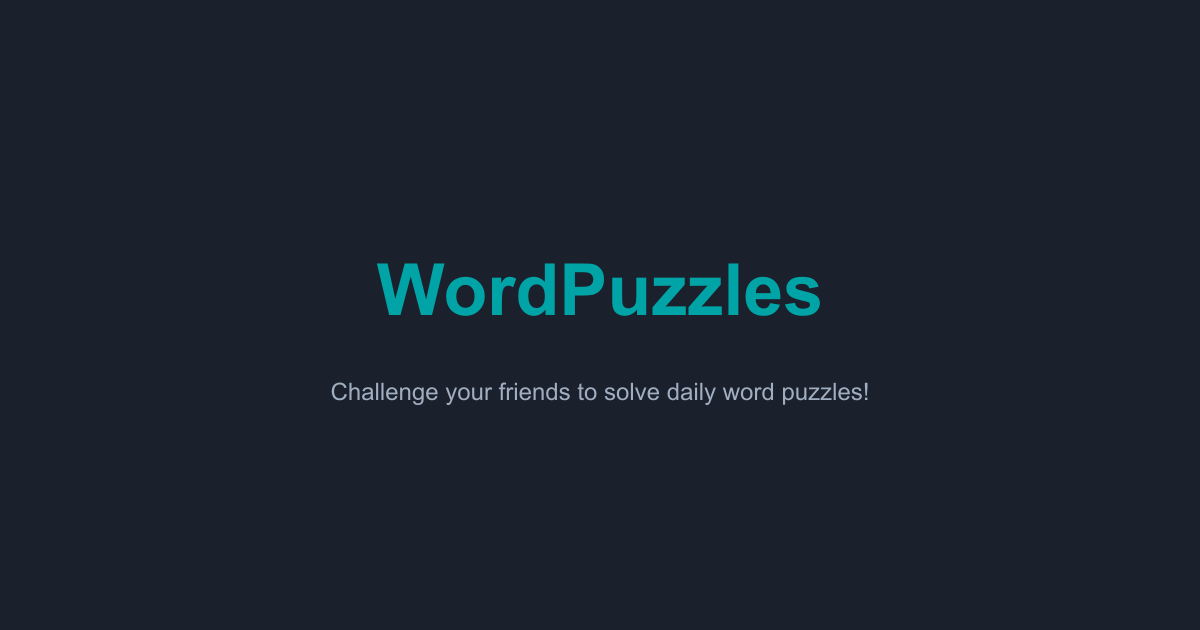
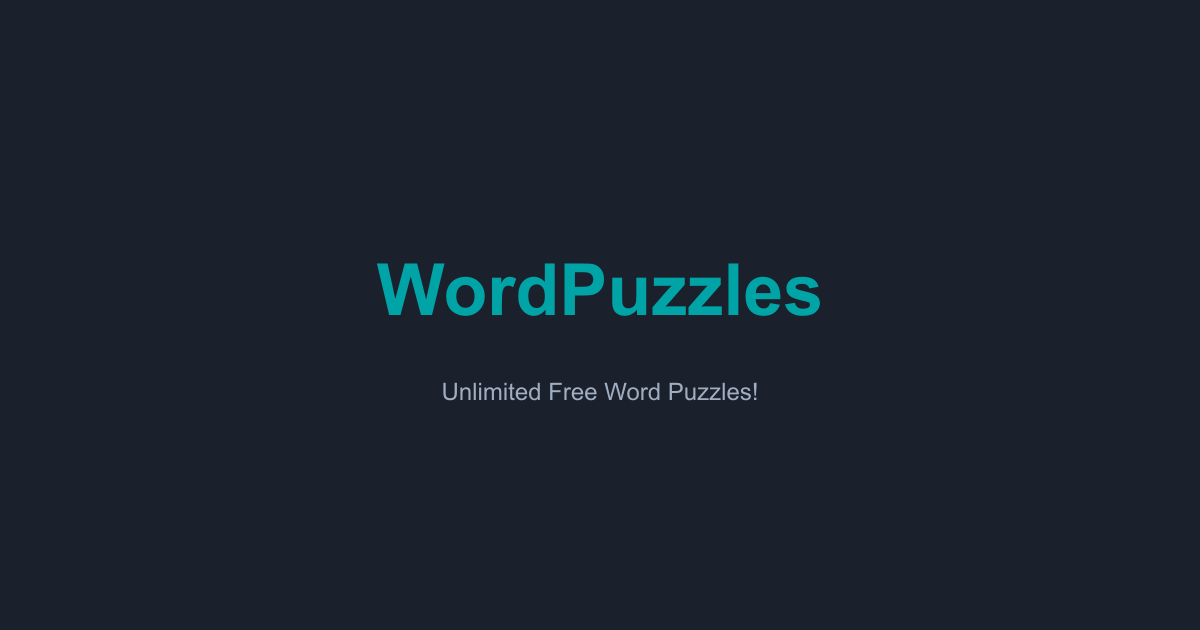
Improve link sharing and branding: Update meta tags, sharing messages, and og-image

Changed region(s): [[0.2775, 0.6032, 0.74, 0.6333]]

diff --git a/index.html b/index.html
@@ -10,24 +10,24 @@
     <title>WordPuzzles.org</title>
     
     <!-- Primary Meta Tags -->
-    <meta name="title" content="WordPuzzles.org - Daily Word Puzzles">
-    <meta name="description" content="Challenge your friends to solve daily word puzzles! Play now and test your vocabulary skills.">
-    <meta name="keywords" content="word puzzles, daily puzzles, word games, vocabulary games">
+    <meta name="title" content="WordPuzzles.org - Unlimited Free Word Puzzles!">
+    <meta name="description" content="Unlimited Free Word Puzzles! Challenge your friends and test your vocabulary skills.">
+    <meta name="keywords" content="word puzzles, unlimited puzzles, word games, vocabulary games">
     <meta name="author" content="WordPuzzles.org">
     
     <!-- Open Graph / Facebook -->
     <meta property="og:type" content="website">
     <meta property="og:url" content="https://wordpuzzles.org/">
-    <meta property="og:title" content="WordPuzzles.org - Daily Word Puzzles">
-    <meta property="og:description" content="Challenge your friends to solve daily word puzzles! Play now and test your vocabulary skills.">
+    <meta property="og:title" content="WordPuzzles.org - Unlimited Free Word Puzzles!">
+    <meta property="og:description" content="Unlimited Free Word Puzzles! Challenge your friends and test your vocabulary skills.">
     <meta property="og:image" content="https://wordpuzzles.org/og-image.png">
     <meta property="og:site_name" content="WordPuzzles.org">
 
     <!-- Twitter -->
     <meta property="twitter:card" content="summary_large_image">
     <meta property="twitter:url" content="https://wordpuzzles.org/">
-    <meta property="twitter:title" content="WordPuzzles.org - Daily Word Puzzles">
-    <meta property="twitter:description" content="Challenge your friends to solve daily word puzzles! Play now and test your vocabulary skills.">
+    <meta property="twitter:title" content="WordPuzzles.org - Unlimited Free Word Puzzles!">
+    <meta property="twitter:description" content="Unlimited Free Word Puzzles! Challenge your friends and test your vocabulary skills.">
     <meta property="twitter:image" content="https://wordpuzzles.org/og-image.png">
 
     <!-- Apple -->

diff --git a/src/App.tsx b/src/App.tsx
@@ -38,11 +38,11 @@ const MAX_GUESSES = 6;
 const updateMetaTags = (challenger?: string | null) => {
   const title = challenger 
     ? `${challenger} has challenged you to a WordPuzzle!`
-    : 'WordPuzzles.org - Daily Word Puzzles';
+    : 'WordPuzzles.org - Unlimited Free Word Puzzles!';
   
   const description = challenger
     ? `Can you solve this WordPuzzle challenge from ${challenger}?`
-    : 'Challenge your friends to solve daily word puzzles! Play now and test your vocabulary skills.';
+    : 'Unlimited Free Word Puzzles! Challenge your friends and test your vocabulary skills.';
   
   const url = window.location.origin + window.location.pathname + window.location.search;
   

diff --git a/src/utils/gameSharing.ts b/src/utils/gameSharing.ts
@@ -31,10 +31,10 @@ export const generateShareMessage = (gameId: number, userName?: string): string 
   const shareUrl = `${baseUrl}?game=${gameId}`;
   
   if (userName) {
-    return `${userName} has challenged you to a WordPuzzle! Can you solve it? ${shareUrl}`;
+    return `${userName} has challenged you to a WordPuzzle! ${shareUrl}`;
   }
   
-  return `I've created a WordPuzzle challenge! Can you solve it? ${shareUrl}`;
+  return `Can you solve this WordPuzzle? ${shareUrl}`;
 };
 
 // Generate a shareable URL for a game
